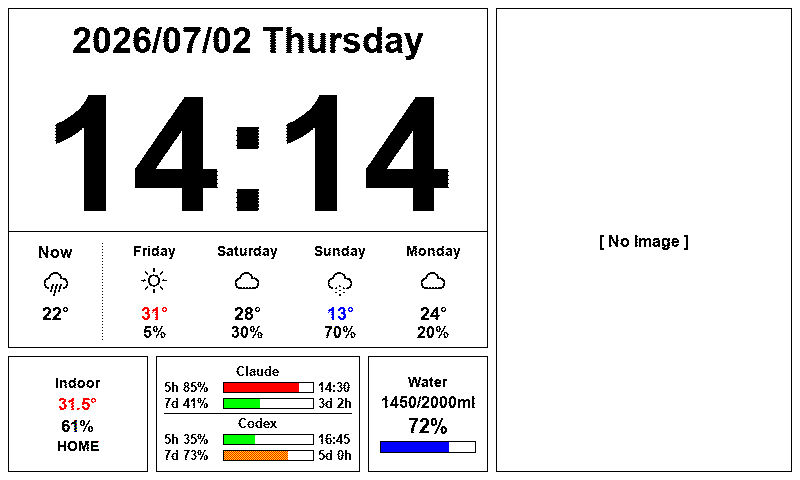
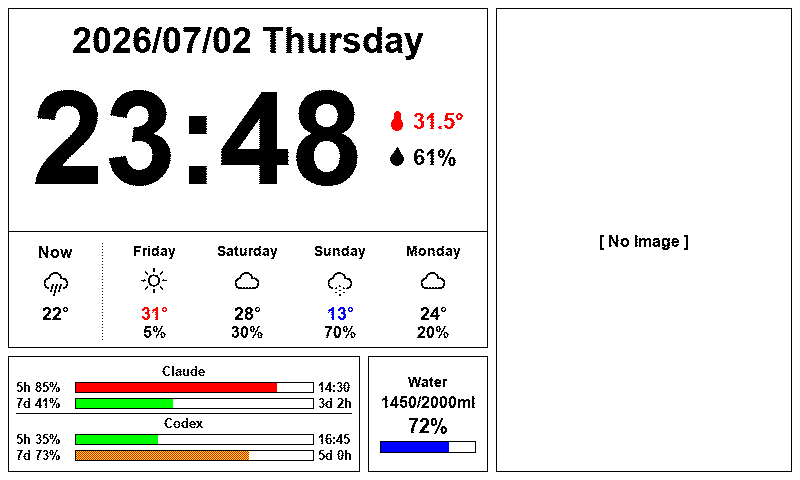
refactor(display): merge indoor card into weather card and expand usage card
- app/display/renderer_cards.py:
  - remove _draw_card_indoor()
  - integrate indoor temperature and humidity display alongside the clock in _draw_card_weather()
  - add text auto-scaling for clock size to prevent layout overflow
- app/display/renderer_constants.py:
  - remove indoor card layout constants
  - expand usage card width to occupy the freed space
- app/display/renderer_utils.py:
  - implement _draw_thermometer_icon() and _draw_droplet_icon() helper functions
- docs/images/: update preview screenshots to reflect the new layout

Changed region(s): [[0.0312, 0.1875, 0.5938, 0.4375], [0.0312, 0.75, 0.375, 0.9688], [0.2812, 0.75, 0.3438, 0.7812]]

diff --git a/app/display/renderer_cards.py b/app/display/renderer_cards.py
@@ -10,7 +10,6 @@ from app.display.renderer_constants import (
     FG, PAD,
     WEATHER_X, WEATHER_Y, WEATHER_W, WEATHER_H,
     IMAGE_X, IMAGE_Y, IMAGE_W, IMAGE_H,
-    INDOOR_X, INDOOR_Y, INDOOR_W, INDOOR_H,
     USAGE_X, USAGE_Y, USAGE_W, USAGE_H,
     HYDRA_X, HYDRA_Y, HYDRA_W, HYDRA_H,
     _WX_TOP_H, _WEEKDAYS,
@@ -18,6 +17,7 @@ from app.display.renderer_constants import (
 from app.display.renderer_utils import (
     _font, _cx_text, _paste_icon, _draw_progress_bar,
     _pick_daily_forecast, _weather_item, _temp_color, _usage_color,
+    _draw_thermometer_icon, _draw_droplet_icon,
 )
 
 if TYPE_CHECKING:
@@ -48,7 +48,61 @@ def _draw_card_weather(
     _cx_text(draw, date_str, ix, inner_w, dt_top, _font(36, bold=True))
 
     time_str = now.strftime("%H:%M")
-    _cx_text(draw, time_str, ix, inner_w, dt_top + 46, _font(160, bold=True))
+    time_y = dt_top + 46
+
+    sensor_font = _font(22, bold=True)
+    icon_sz = 20
+    icon_gap = 6
+    row_gap = 8
+    row_h = 28
+    group_gap = 24
+
+    temp_str = f"{state.temperature:.1f}°" if state.temperature is not None else "--°"
+    hum_str = f"{state.humidity:.0f}%" if state.humidity is not None else "--%"
+    temp_bb = draw.textbbox((0, 0), temp_str, font=sensor_font)
+    hum_bb = draw.textbbox((0, 0), hum_str, font=sensor_font)
+    temp_w = temp_bb[2] - temp_bb[0]
+    hum_w = hum_bb[2] - hum_bb[0]
+    sensor_w = icon_sz + icon_gap + max(temp_w, hum_w)
+
+    # Shrink the clock font if needed so the (time + sensor block) group never
+    # overflows the card — guards against wider fonts/strings in the future.
+    time_size = 130
+    while True:
+        time_font = _font(time_size, bold=True)
+        time_bb = draw.textbbox((0, 0), time_str, font=time_font)
+        time_w = time_bb[2] - time_bb[0]
+        group_w = time_w + group_gap + sensor_w
+        if group_w <= inner_w or time_size <= 90:
+            break
+        time_size -= 5
+
+    group_x = ix + max(0, (inner_w - group_w) // 2)
+    if group_x + group_w > ix + inner_w:
+        group_x = max(ix, ix + inner_w - group_w)
+
+    draw.text((group_x, time_y), time_str, font=time_font, fill=FG)
+
+    sensor_x = group_x + time_w + group_gap
+    sensor_block_h = row_h * 2 + row_gap
+    # Align the midpoint between the temp/humidity rows to the time text's
+    # visual vertical centerline (accounts for the font's top bearing).
+    time_visible_center = time_y + (time_bb[1] + time_bb[3]) / 2
+    sensor_y = int(time_visible_center - sensor_block_h / 2)
+
+    temp_color = _temp_color(state.temperature, color)
+    _draw_thermometer_icon(draw, sensor_x, sensor_y + (row_h - icon_sz) // 2, icon_sz, fill=temp_color)
+    draw.text(
+        (sensor_x + icon_sz + icon_gap, sensor_y + (row_h - 22) // 2),
+        temp_str, font=sensor_font, fill=temp_color,
+    )
+
+    hum_y = sensor_y + row_h + row_gap
+    _draw_droplet_icon(draw, sensor_x, hum_y + (row_h - icon_sz) // 2, icon_sz, fill=FG)
+    draw.text(
+        (sensor_x + icon_sz + icon_gap, hum_y + (row_h - 22) // 2),
+        hum_str, font=sensor_font, fill=FG,
+    )
 
     div_y = WEATHER_Y + PAD + _WX_TOP_H
     draw.line([(WEATHER_X + 1, div_y), (WEATHER_X + WEATHER_W - 2, div_y)], fill=FG, width=1)
@@ -146,29 +200,6 @@ def _draw_card_image(img: Image.Image, draw: ImageDraw.ImageDraw, state: "AgentS
     except (OSError, IOError) as e:
         logger.warning("custom image load failed: %s", e)
         draw.text((ix + 4, iy + 4), "Image Error", font=_font(16, bold=True), fill=FG)
-
-
-def _draw_card_indoor(draw: ImageDraw.ImageDraw, state: "AgentState", *, color: bool = True) -> None:
-    draw.rectangle(
-        [(INDOOR_X, INDOOR_Y), (INDOOR_X + INDOOR_W - 1, INDOOR_Y + INDOOR_H - 1)],
-        outline=FG, width=1,
-    )
-    ix, iy = INDOOR_X + PAD, INDOOR_Y + PAD
-    iw = INDOOR_W - 2 * PAD
-    ih = INDOOR_H - 2 * PAD
-
-    temp_str = f"{state.temperature:.1f}°" if state.temperature is not None else "--°"
-    hum_str = f"{state.humidity:.0f}%" if state.humidity is not None else "--%"
-    mode_map = {"OCCUPIED": "HOME", "UNOCCUPIED": "AWAY", "UNKNOWN": "?"}
-    mode_str = mode_map.get(state.presence, state.presence[:6])
-
-    content_h = 14 + 5 + 17 + 5 + 17 + 5 + 14
-    sy = iy + max(0, (ih - content_h) // 2)
-
-    _cx_text(draw, "Indoor", ix, iw, sy, _font(14, bold=True))
-    _cx_text(draw, temp_str, ix, iw, sy + 19, _font(17, bold=True), fill=_temp_color(state.temperature, color))
-    _cx_text(draw, hum_str, ix, iw, sy + 41, _font(17, bold=True))
-    _cx_text(draw, mode_str, ix, iw, sy + 63, _font(14, bold=True))
 
 
 def _draw_usage_row(

diff --git a/app/display/renderer_utils.py b/app/display/renderer_utils.py
@@ -161,6 +161,40 @@ def _temp_color(temp: float | None, color: bool = True) -> tuple[int, int, int]:
     return FG
 
 
+def _draw_thermometer_icon(
+    draw: ImageDraw.ImageDraw, x: int, y: int, size: int, fill: tuple[int, int, int] = FG,
+) -> None:
+    """Draw a simple filled thermometer glyph inside the [x, x+size] x [y, y+size] box."""
+    if size <= 0:
+        return
+    cx = x + size / 2
+    bulb_r = size * 0.28
+    bulb_cy = y + size - bulb_r
+    stem_w = size * 0.30
+    stem_top = y + size * 0.05
+    draw.rounded_rectangle(
+        [cx - stem_w / 2, stem_top, cx + stem_w / 2, bulb_cy],
+        radius=stem_w / 2, fill=fill,
+    )
+    draw.ellipse([cx - bulb_r, bulb_cy - bulb_r, cx + bulb_r, bulb_cy + bulb_r], fill=fill)
+
+
+def _draw_droplet_icon(
+    draw: ImageDraw.ImageDraw, x: int, y: int, size: int, fill: tuple[int, int, int] = FG,
+) -> None:
+    """Draw a simple filled water-drop glyph inside the [x, x+size] x [y, y+size] box."""
+    if size <= 0:
+        return
+    cx = x + size / 2
+    r = size * 0.32
+    circle_cy = y + size - r - size * 0.02
+    draw.ellipse([cx - r, circle_cy - r, cx + r, circle_cy + r], fill=fill)
+    apex_y = y + size * 0.05
+    tri_base_y = circle_cy - r * 0.15
+    tri_half_w = r * 0.95
+    draw.polygon([(cx, apex_y), (cx - tri_half_w, tri_base_y), (cx + tri_half_w, tri_base_y)], fill=fill)
+
+
 def _cx_text(
     draw: ImageDraw.ImageDraw,
     text: str,

diff --git a/app/display/renderer.py b/app/display/renderer.py
@@ -9,7 +9,6 @@ from app.display.renderer_constants import DISPLAY_W, DISPLAY_H, BG
 from app.display.renderer_cards import (
     _draw_card_weather,
     _draw_card_image,
-    _draw_card_indoor,
     _draw_card_usage,
     _draw_card_hydra,
 )
@@ -33,7 +32,6 @@ def render_dashboard(
     color = settings.display.is_color
     _draw_card_weather(img, draw, state, now, color=color)
     _draw_card_image(img, draw, state)
-    _draw_card_indoor(draw, state, color=color)
     _draw_card_usage(draw, state, color=color)
     _draw_card_hydra(draw, state, settings, color=color)
 

diff --git a/app/display/renderer_constants.py b/app/display/renderer_constants.py
@@ -30,12 +30,9 @@ IMAGE_H = _CH
 ROW2_Y = WEATHER_Y + WEATHER_H + _GAP
 ROW2_H = (_CY + _CH) - ROW2_Y
 
-INDOOR_X, INDOOR_Y = _CX, ROW2_Y
-INDOOR_W, INDOOR_H = 140, ROW2_H
-
-USAGE_X = INDOOR_X + INDOOR_W + _GAP
+USAGE_X = _CX
 USAGE_Y = ROW2_Y
-USAGE_W = 204
+USAGE_W = 140 + _GAP + 204
 USAGE_H = ROW2_H
 
 HYDRA_X = USAGE_X + USAGE_W + _GAP

diff --git a/README.md b/README.md
@@ -16,7 +16,7 @@
 
 ![儀表板預覽](docs/images/preview_dashboard.png)
 
-主畫面，每分鐘自動更新。左側顯示日期時間、天氣（即時 + 4 天預報）；右下角為室內溫濕度＋在場狀態（HOME/AWAY）、Claude / Codex AI 使用量進度條（附重置時間）；右側為圖片輪播區。
+主畫面，每分鐘自動更新。左側顯示日期時間（時鐘右方以圖示顯示室內溫濕度）、天氣（即時 + 4 天預報）；左下方為 Claude / Codex AI 使用量進度條（附重置時間）與飲水進度；右側為圖片輪播區。
 
 ### WiFi 設定模式（AP Mode）
 
